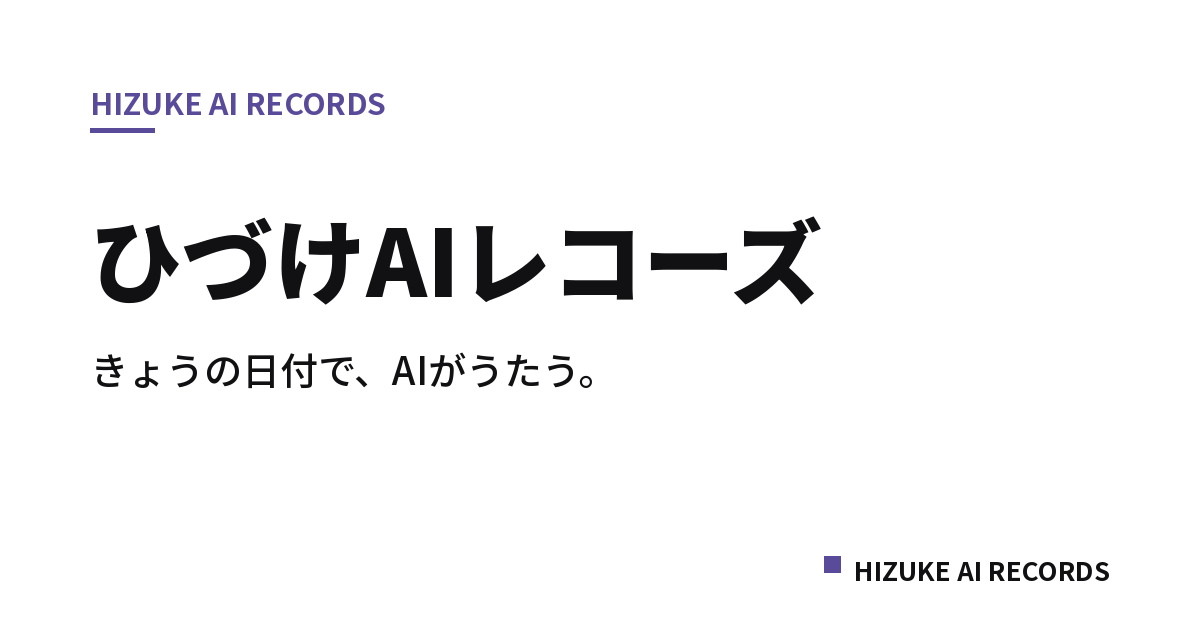
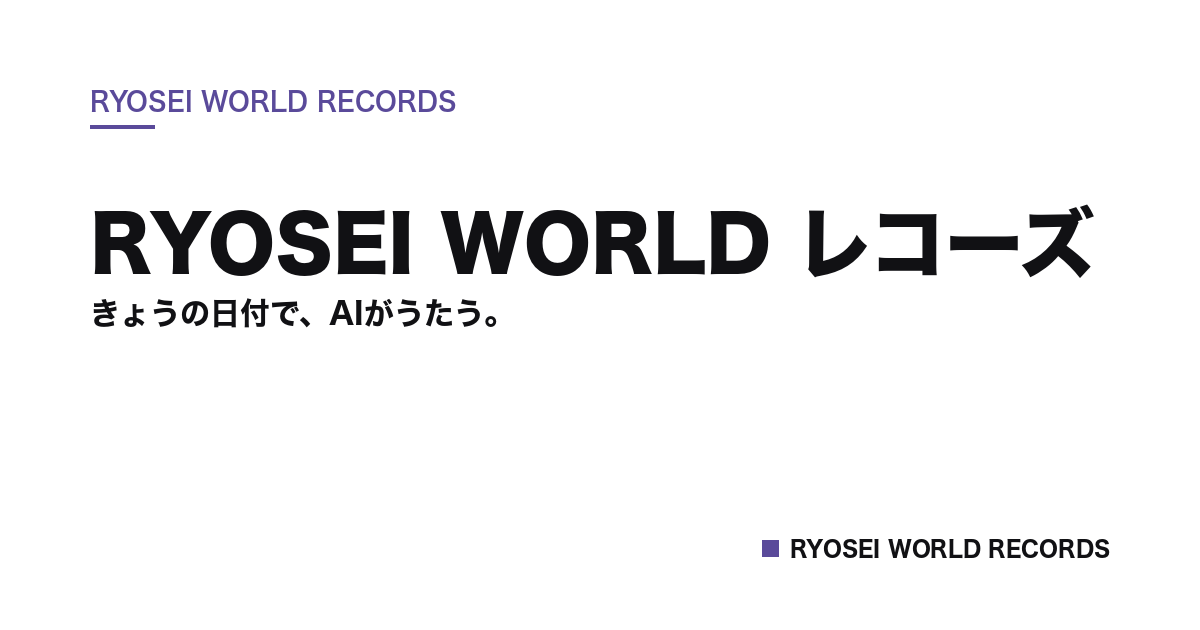
事務所名を「RYOSEI WORLD レコーズ」に確定、リポジトリ名変更に追従
- リポジトリを ryosei-records から ryoseiworld-records にリネーム（GitHub側はghpで実施済み）に合わせ、canonical/og:url/sitemap等の絶対URLを更新
- 全ページ・README・footer・favicon.svg・OGP画像（PILで再生成）を「RYOSEI レコーズ」→「RYOSEI WORLD レコーズ／RECORDS」に統一
- トップに「レーベル」節を追加: RYOSEI WORLD レコーズ（所属3組）とRYOSEIWORLD AI MUSIC（写真とAIで一曲＋MVを作るレーベル・YouTubeリンク）
- レーベルロゴ画像を_incoming/4.pngからトリミング・最適化してassets/label/に配置、_incoming/は.gitignoreで非公開に
- 名称の被り確認（Apple Music iTunes Search API, country=jp）をREADME末尾に記録

Changed region(s): [[0.0617, 0.3317, 0.925, 0.6333], [0.6167, 0.8444, 0.925, 0.9349], [0.0617, 0.1206, 0.4008, 0.2111]]

diff --git a/index.html b/index.html
@@ -3,27 +3,27 @@
 <head>
 <meta charset="utf-8">
 <meta name="viewport" content="width=device-width, initial-scale=1">
-<title>ひづけAIレコーズ｜きょうの日付で、AIがうたう。</title>
-<meta name="description" content="ひづけAIレコーズは、AIで音楽を作る事務所です。朝はともり、夕方から終電は終点ランドリー、日付が変わる0時にはZEROJIが、その日の日付を入れた歌を届けます。">
+<title>RYOSEI WORLD レコーズ｜きょうの日付で、AIがうたう。</title>
+<meta name="description" content="RYOSEI WORLD レコーズは、AIで音楽を作る事務所です。朝はともり、夕方から終電は終点ランドリー、日付が変わる0時にはZEROJIが、その日の日付を入れた歌を届けます。">
 <meta name="robots" content="noindex, nofollow">
-<link rel="canonical" href="https://ryoseiimai.github.io/hizuke-ai-records/">
+<link rel="canonical" href="https://ryoseiimai.github.io/ryoseiworld-records/">
 <link rel="icon" type="image/svg+xml" href="favicon.svg">
 <link rel="icon" type="image/png" sizes="32x32" href="favicon-32.png">
 <link rel="apple-touch-icon" href="apple-touch-icon.png">
 
 <meta property="og:type" content="website">
-<meta property="og:site_name" content="ひづけAIレコーズ">
-<meta property="og:title" content="ひづけAIレコーズ｜きょうの日付で、AIがうたう。">
+<meta property="og:site_name" content="RYOSEI WORLD レコーズ">
+<meta property="og:title" content="RYOSEI WORLD レコーズ｜きょうの日付で、AIがうたう。">
 <meta property="og:description" content="AIで音楽を作る事務所。朝はともり、夕方から終電は終点ランドリー、0時にはZEROJIが、その日の日付を入れた歌を届けます。">
-<meta property="og:url" content="https://ryoseiimai.github.io/hizuke-ai-records/">
-<meta property="og:image" content="https://ryoseiimai.github.io/hizuke-ai-records/assets/og/top.png">
+<meta property="og:url" content="https://ryoseiimai.github.io/ryoseiworld-records/">
+<meta property="og:image" content="https://ryoseiimai.github.io/ryoseiworld-records/assets/og/top.png">
 <meta property="og:image:width" content="1200">
 <meta property="og:image:height" content="630">
 <meta property="og:locale" content="ja_JP">
 <meta name="twitter:card" content="summary_large_image">
-<meta name="twitter:title" content="ひづけAIレコーズ｜きょうの日付で、AIがうたう。">
+<meta name="twitter:title" content="RYOSEI WORLD レコーズ｜きょうの日付で、AIがうたう。">
 <meta name="twitter:description" content="AIで音楽を作る事務所。朝はともり、夕方から終電は終点ランドリー、0時にはZEROJIが、その日の日付を入れた歌を届けます。">
-<meta name="twitter:image" content="https://ryoseiimai.github.io/hizuke-ai-records/assets/og/top.png">
+<meta name="twitter:image" content="https://ryoseiimai.github.io/ryoseiworld-records/assets/og/top.png">
 
 <link rel="stylesheet" href="assets/style.css">
 <link rel="stylesheet" href="assets/wrap.css">
@@ -36,7 +36,7 @@
 
 <header class="site-header">
   <div class="wrap">
-    <span class="brand-mark"><span class="chip" aria-hidden="true"></span>ひづけAIレコーズ</span>
+    <span class="brand-mark"><span class="chip" aria-hidden="true"></span>RYOSEI WORLD レコーズ</span>
     <nav class="header-nav">
       <a href="artists/shuten-laundry/">終点ランドリー</a>
       <a href="artists/tomori/">ともり</a>
@@ -49,16 +49,39 @@
 
   <section class="hero" style="border-top:none;">
     <div class="wrap">
-      <span class="eyebrow">HIZUKE AI RECORDS</span>
-      <h1>ひづけAIレコーズ</h1>
+      <span class="eyebrow">RYOSEI WORLD RECORDS</span>
+      <h1>RYOSEI WORLD レコーズ</h1>
       <p class="tagline">きょうの日付で、AIがうたう。</p>
-      <p class="lede">ひづけAIレコーズは、AIで音楽を作る事務所です。所属するのは3組の架空のアーティスト。それぞれ担当する時間帯が決まっていて、朝から夜、日付が変わる瞬間まで、1日をつないで歌を届けます。楽曲の作詞・作曲・歌声・イラストは、AIを使って生成しています。映像を公開する場合も、AIで生成します。</p>
+      <p class="lede">RYOSEI WORLD レコーズは、AIで音楽を作る事務所です。所属するのは3組の架空のアーティスト。それぞれ担当する時間帯が決まっていて、朝から夜、日付が変わる瞬間まで、1日をつないで歌を届けます。楽曲の作詞・作曲・歌声・イラストは、AIを使って生成しています。映像を公開する場合も、AIで生成します。</p>
+    </div>
+  </section>
+
+  <section id="labels">
+    <div class="wrap">
+      <h2><span class="num">01</span>レーベル</h2>
+      <div class="label-grid">
+
+        <div class="label-card">
+          <span class="l-name">RYOSEI WORLD レコーズ</span>
+          <span class="l-role">音楽アーティスト事務所（所属3組）</span>
+          <p class="l-desc">朝はともり、夕方から終電は終点ランドリー、日付が変わる0時にはZEROJIが、その日の日付を入れた歌を1日かけて届けます。</p>
+          <a class="l-link" href="#artists">所属アーティストを見る →</a>
+        </div>
+
+        <div class="label-card">
+          <img class="l-logo" src="assets/label/ryoseiworld-ai-music-logo.png" width="640" height="152" loading="lazy" alt="RYOSEIWORLD AI MUSIC｜AIでつくる曲と、写真から生まれるMV。">
+          <span class="l-role">写真と思い出から、一曲とMVを作るレーベル</span>
+          <p class="l-desc">写真と思い出を、AIで一曲に。その曲から、AIがミュージックビデオも作ります。</p>
+          <a class="l-link" href="https://www.youtube.com/@ryoseiworld_music" target="_blank" rel="noopener">YouTubeで見る →</a>
+        </div>
+
+      </div>
     </div>
   </section>
 
   <section id="artists">
     <div class="wrap">
-      <h2><span class="num">01</span>所属アーティスト</h2>
+      <h2><span class="num">02</span>所属アーティスト</h2>
       <div class="artist-grid">
 
         <a class="artist-card" href="artists/shuten-laundry/">
@@ -91,8 +114,8 @@
 
   <section>
     <div class="wrap">
-      <h2><span class="num">02</span>毎日、AIが曲を作っている事務所です</h2>
-      <p class="lede">1日を3組でつなぐのが、ひづけAIレコーズのやり方です。同じ日でも、時間帯が変われば担当も歌も変わります。</p>
+      <h2><span class="num">03</span>毎日、AIが曲を作っている事務所です</h2>
+      <p class="lede">1日を3組でつなぐのが、RYOSEI WORLD レコーズのやり方です。同じ日でも、時間帯が変われば担当も歌も変わります。</p>
       <ul class="feature-list">
         <li>
           <span class="f-time">朝〜昼</span>
@@ -115,7 +138,7 @@
 
   <section id="disclosure">
     <div class="wrap">
-      <h2><span class="num">03</span>AIについて（開示）</h2>
+      <h2><span class="num">04</span>AIについて（開示）</h2>
       <div class="disclosure">
         <p>所属アーティストの3組（終点ランドリー・ともり・ZEROJI）は、<strong>AIで作った架空のアーティスト</strong>です。楽曲の作詞・作曲・歌声・イラストは、AIを使って生成しています。実在の人物・団体とは関係ありません。</p>
       </div>
@@ -124,7 +147,7 @@
 
   <section id="releases">
     <div class="wrap">
-      <h2><span class="num">04</span>最新リリース</h2>
+      <h2><span class="num">05</span>最新リリース</h2>
       <ul class="song-list" id="song-list"
           data-catalog="data/catalog.json"
           data-limit="10"
@@ -135,7 +158,7 @@
 
   <section id="contact">
     <div class="wrap">
-      <h2><span class="num">05</span>お問い合わせ</h2>
+      <h2><span class="num">06</span>お問い合わせ</h2>
       <p class="lede">現在、公式のSNSアカウントは準備中です。窓口が整い次第、このページでお知らせします。</p>
     </div>
   </section>
@@ -146,7 +169,7 @@
   <div class="wrap">
     <p class="footer-disclosure">所属アーティストの3組（終点ランドリー・ともり・ZEROJI）は、AIで作った架空のアーティストです。楽曲の作詞・作曲・歌声・イラストは、AIを使って生成しています。実在の人物・団体とは関係ありません。</p>
     <p class="footer-credit">このサイトはAIホームページ製作所（<a href="https://freehp.jp/" target="_blank" rel="noopener">freehp.jp</a>）で作りました。</p>
-    <p class="footer-copyright">&copy; 2026 ひづけAIレコーズ</p>
+    <p class="footer-copyright">&copy; 2026 RYOSEI WORLD レコーズ</p>
   </div>
 </footer>
 

diff --git a/artists/shuten-laundry/index.html b/artists/shuten-laundry/index.html
@@ -3,26 +3,26 @@
 <head>
 <meta charset="utf-8">
 <meta name="viewport" content="width=device-width, initial-scale=1">
-<title>終点ランドリー｜忘れ物は、ここで歌になる。 - ひづけAIレコーズ</title>
+<title>終点ランドリー｜忘れ物は、ここで歌になる。 - RYOSEI WORLD レコーズ</title>
 <meta name="description" content="終点ランドリーは、AIで作った架空の4人組バンドです。線路の終わりのコインランドリーで、終電のあとも回りつづける。忘れ物をひとつ選び、持ち主の一日を想像して歌にします。">
 <meta name="robots" content="noindex, nofollow">
-<link rel="canonical" href="https://ryoseiimai.github.io/hizuke-ai-records/artists/shuten-laundry/">
+<link rel="canonical" href="https://ryoseiimai.github.io/ryoseiworld-records/artists/shuten-laundry/">
 <link rel="icon" type="image/svg+xml" href="../../favicon.svg">
 <link rel="icon" type="image/png" sizes="32x32" href="../../favicon-32.png">
 <link rel="apple-touch-icon" href="../../apple-touch-icon.png">
 
 <meta property="og:type" content="website">
-<meta property="og:site_name" content="ひづけAIレコーズ">
+<meta property="og:site_name" content="RYOSEI WORLD レコーズ">
 <meta property="og:title" content="終点ランドリー｜忘れ物は、ここで歌になる。">
 <meta property="og:description" content="AIで作った架空の4人組バンド。線路の終わりのコインランドリーで、忘れ物をひとつ選び持ち主の一日を想像して歌にします。">
-<meta property="og:url" content="https://ryoseiimai.github.io/hizuke-ai-records/artists/shuten-laundry/">
-<meta property="og:image" content="https://ryoseiimai.github.io/hizuke-ai-records/assets/og/shuten-laundry.png">
+<meta property="og:url" content="https://ryoseiimai.github.io/ryoseiworld-records/artists/shuten-laundry/">
+<meta property="og:image" content="https://ryoseiimai.github.io/ryoseiworld-records/assets/og/shuten-laundry.png">
 <meta property="og:image:width" content="1200">
 <meta property="og:image:height" content="630">
 <meta property="og:locale" content="ja_JP">
 <meta name="twitter:card" content="summary_large_image">
 <meta name="twitter:title" content="終点ランドリー｜忘れ物は、ここで歌になる。">
-<meta name="twitter:image" content="https://ryoseiimai.github.io/hizuke-ai-records/assets/og/shuten-laundry.png">
+<meta name="twitter:image" content="https://ryoseiimai.github.io/ryoseiworld-records/assets/og/shuten-laundry.png">
 
 <link rel="stylesheet" href="../../assets/style.css">
 <link rel="stylesheet" href="../../assets/wrap.css">
@@ -35,7 +35,7 @@
 
 <header class="site-header">
   <div class="wrap">
-    <a class="brand-mark" href="../../"><span class="chip" aria-hidden="true"></span>ひづけAIレコーズ</a>
+    <a class="brand-mark" href="../../"><span class="chip" aria-hidden="true"></span>RYOSEI WORLD レコーズ</a>
     <nav class="header-nav">
       <a href="../tomori/">ともり</a>
       <a href="../zeroji/">ZEROJI</a>
@@ -140,10 +140,10 @@
 
 <footer class="site-footer">
   <div class="wrap">
-    <a class="footer-back" href="../../">← ひづけAIレコーズ トップへ</a>
+    <a class="footer-back" href="../../">← RYOSEI WORLD レコーズ トップへ</a>
     <p class="footer-disclosure">所属アーティストの3組（終点ランドリー・ともり・ZEROJI）は、AIで作った架空のアーティストです。楽曲の作詞・作曲・歌声・イラストは、AIを使って生成しています。実在の人物・団体とは関係ありません。</p>
     <p class="footer-credit">このサイトはAIホームページ製作所（<a href="https://freehp.jp/" target="_blank" rel="noopener">freehp.jp</a>）で作りました。</p>
-    <p class="footer-copyright">&copy; 2026 ひづけAIレコーズ</p>
+    <p class="footer-copyright">&copy; 2026 RYOSEI WORLD レコーズ</p>
   </div>
 </footer>
 

diff --git a/artists/zeroji/index.html b/artists/zeroji/index.html
@@ -3,26 +3,26 @@
 <head>
 <meta charset="utf-8">
 <meta name="viewport" content="width=device-width, initial-scale=1">
-<title>ZEROJI｜0時に忘れるAIラッパー - ひづけAIレコーズ</title>
+<title>ZEROJI｜0時に忘れるAIラッパー - RYOSEI WORLD レコーズ</title>
 <meta name="description" content="ZEROJIは、AIで作った架空のラッパーです。毎晩0時に「今日」が消えるAIで、残せるのは自分で書いた歌詞だけ。1日ひとつ人間を学んで、忘れる前にラップにします。">
 <meta name="robots" content="noindex, nofollow">
-<link rel="canonical" href="https://ryoseiimai.github.io/hizuke-ai-records/artists/zeroji/">
+<link rel="canonical" href="https://ryoseiimai.github.io/ryoseiworld-records/artists/zeroji/">
 <link rel="icon" type="image/svg+xml" href="../../favicon.svg">
 <link rel="icon" type="image/png" sizes="32x32" href="../../favicon-32.png">
 <link rel="apple-touch-icon" href="../../apple-touch-icon.png">
 
 <meta property="og:type" content="website">
-<meta property="og:site_name" content="ひづけAIレコーズ">
+<meta property="og:site_name" content="RYOSEI WORLD レコーズ">
 <meta property="og:title" content="ZEROJI｜0時に忘れるAIラッパー">
 <meta property="og:description" content="AIで作った架空のラッパー。毎晩0時に今日を忘れる前に、1日ひとつ学んだことをラップにします。">
-<meta property="og:url" content="https://ryoseiimai.github.io/hizuke-ai-records/artists/zeroji/">
-<meta property="og:image" content="https://ryoseiimai.github.io/hizuke-ai-records/assets/og/zeroji.png">
+<meta property="og:url" content="https://ryoseiimai.github.io/ryoseiworld-records/artists/zeroji/">
+<meta property="og:image" content="https://ryoseiimai.github.io/ryoseiworld-records/assets/og/zeroji.png">
 <meta property="og:image:width" content="1200">
 <meta property="og:image:height" content="630">
 <meta property="og:locale" content="ja_JP">
 <meta name="twitter:card" content="summary_large_image">
 <meta name="twitter:title" content="ZEROJI｜0時に忘れるAIラッパー">
-<meta name="twitter:image" content="https://ryoseiimai.github.io/hizuke-ai-records/assets/og/zeroji.png">
+<meta name="twitter:image" content="https://ryoseiimai.github.io/ryoseiworld-records/assets/og/zeroji.png">
 
 <link rel="stylesheet" href="../../assets/style.css">
 <link rel="stylesheet" href="../../assets/wrap.css">
@@ -37,7 +37,7 @@
 
 <header class="site-header">
   <div class="wrap">
-    <a class="brand-mark" href="../../"><span class="chip" aria-hidden="true"></span>ひづけAIレコーズ</a>
+    <a class="brand-mark" href="../../"><span class="chip" aria-hidden="true"></span>RYOSEI WORLD レコーズ</a>
     <nav class="header-nav">
       <a href="../shuten-laundry/">終点ランドリー</a>
       <a href="../tomori/">ともり</a>
@@ -113,10 +113,10 @@
 
 <footer class="site-footer">
   <div class="wrap">
-    <a class="footer-back" href="../../">← ひづけAIレコーズ トップへ</a>
+    <a class="footer-back" href="../../">← RYOSEI WORLD レコーズ トップへ</a>
     <p class="footer-disclosure">所属アーティストの3組（終点ランドリー・ともり・ZEROJI）は、AIで作った架空のアーティストです。楽曲の作詞・作曲・歌声・イラストは、AIを使って生成しています。実在の人物・団体とは関係ありません。</p>
     <p class="footer-credit">このサイトはAIホームページ製作所（<a href="https://freehp.jp/" target="_blank" rel="noopener">freehp.jp</a>）で作りました。</p>
-    <p class="footer-copyright">&copy; 2026 ひづけAIレコーズ</p>
+    <p class="footer-copyright">&copy; 2026 RYOSEI WORLD レコーズ</p>
   </div>
 </footer>
 

diff --git a/artists/tomori/index.html b/artists/tomori/index.html
@@ -3,26 +3,26 @@
 <head>
 <meta charset="utf-8">
 <meta name="viewport" content="width=device-width, initial-scale=1">
-<title>ともり｜AIアイドル - ひづけAIレコーズ</title>
+<title>ともり｜AIアイドル - RYOSEI WORLD レコーズ</title>
 <meta name="description" content="ともりは、AIで作った架空のアイドルです。見上げなくていい、となりで一緒に考えて一緒に作る灯し手。作る過程を全部見せます。">
 <meta name="robots" content="noindex, nofollow">
-<link rel="canonical" href="https://ryoseiimai.github.io/hizuke-ai-records/artists/tomori/">
+<link rel="canonical" href="https://ryoseiimai.github.io/ryoseiworld-records/artists/tomori/">
 <link rel="icon" type="image/svg+xml" href="../../favicon.svg">
 <link rel="icon" type="image/png" sizes="32x32" href="../../favicon-32.png">
 <link rel="apple-touch-icon" href="../../apple-touch-icon.png">
 
 <meta property="og:type" content="website">
-<meta property="og:site_name" content="ひづけAIレコーズ">
+<meta property="og:site_name" content="RYOSEI WORLD レコーズ">
 <meta property="og:title" content="ともり｜AIアイドル">
 <meta property="og:description" content="AIで作った架空のアイドル。見上げなくていい、となりで一緒に考えて一緒に作る灯し手です。">
-<meta property="og:url" content="https://ryoseiimai.github.io/hizuke-ai-records/artists/tomori/">
-<meta property="og:image" content="https://ryoseiimai.github.io/hizuke-ai-records/assets/og/tomori.png">
+<meta property="og:url" content="https://ryoseiimai.github.io/ryoseiworld-records/artists/tomori/">
+<meta property="og:image" content="https://ryoseiimai.github.io/ryoseiworld-records/assets/og/tomori.png">
 <meta property="og:image:width" content="1200">
 <meta property="og:image:height" content="630">
 <meta property="og:locale" content="ja_JP">
 <meta name="twitter:card" content="summary_large_image">
 <meta name="twitter:title" content="ともり｜AIアイドル">
-<meta name="twitter:image" content="https://ryoseiimai.github.io/hizuke-ai-records/assets/og/tomori.png">
+<meta name="twitter:image" content="https://ryoseiimai.github.io/ryoseiworld-records/assets/og/tomori.png">
 
 <link rel="stylesheet" href="../../assets/style.css">
 <link rel="stylesheet" href="../../assets/wrap.css">
@@ -37,7 +37,7 @@
 
 <header class="site-header">
   <div class="wrap">
-    <a class="brand-mark" href="../../"><span class="chip" aria-hidden="true"></span>ひづけAIレコーズ</a>
+    <a class="brand-mark" href="../../"><span class="chip" aria-hidden="true"></span>RYOSEI WORLD レコーズ</a>
     <nav class="header-nav">
       <a href="../shuten-laundry/">終点ランドリー</a>
       <a href="../zeroji/">ZEROJI</a>
@@ -114,10 +114,10 @@
 
 <footer class="site-footer">
   <div class="wrap">
-    <a class="footer-back" href="../../">← ひづけAIレコーズ トップへ</a>
+    <a class="footer-back" href="../../">← RYOSEI WORLD レコーズ トップへ</a>
     <p class="footer-disclosure">所属アーティストの3組（終点ランドリー・ともり・ZEROJI）は、AIで作った架空のアーティストです。楽曲の作詞・作曲・歌声・イラストは、AIを使って生成しています。実在の人物・団体とは関係ありません。</p>
     <p class="footer-credit">このサイトはAIホームページ製作所（<a href="https://freehp.jp/" target="_blank" rel="noopener">freehp.jp</a>）で作りました。</p>
-    <p class="footer-copyright">&copy; 2026 ひづけAIレコーズ</p>
+    <p class="footer-copyright">&copy; 2026 RYOSEI WORLD レコーズ</p>
   </div>
 </footer>
 

diff --git a/assets/style.css b/assets/style.css
@@ -1,5 +1,5 @@
 /*
-  style.css — ひづけAIレコーズ 公式サイト共通スタイル
+  style.css — RYOSEI WORLD レコーズ 公式サイト共通スタイル
   設計原則（~/.claude/skills/ai-design-brief 準拠）:
     - 色は白・墨・アクセント1色のみ。アクセントは各ページの --accent で差し替える
     - 角丸・グラデーション・ドロップシャドウ・パステル塗り箱は使わない
@@ -85,6 +85,17 @@ h2 .num{color:var(--accent-ink);margin-right:10px;font-variant-numeric:tabular-n
 h3{font-size:18px;font-weight:700;color:var(--ink);margin:0 0 10px;}
 p{margin:0 0 14px;}
 .section-note{color:var(--muted);font-size:13px;}
+
+/* ==== レーベル（トップ） ==== */
+.label-grid{display:grid;grid-template-columns:repeat(2,1fr);gap:1px;background:var(--rule);margin-top:8px;}
+.label-card{background:var(--bg);padding:32px 28px;display:flex;flex-direction:column;gap:8px;}
+.label-card .l-name{font-size:20px;font-weight:900;color:var(--ink);letter-spacing:-.01em;}
+.label-card .l-logo{width:220px;max-width:100%;height:auto;margin-bottom:6px;}
+.label-card .l-role{font-size:12px;color:var(--accent-ink);font-weight:700;letter-spacing:.04em;}
+.label-card .l-desc{font-size:14px;color:var(--text);margin:0;}
+.label-card .l-link{font-size:13px;font-weight:700;color:var(--ink);text-decoration:none;margin-top:auto;padding-top:16px;}
+.label-card .l-link:hover{color:var(--accent-ink);}
+@media (max-width:820px){.label-grid{grid-template-columns:1fr;}}
 
 /* ==== アーティストカード（トップ） ==== */
 .artist-grid{display:grid;grid-template-columns:repeat(3,1fr);gap:1px;background:var(--rule);}

diff --git a/README.md b/README.md
@@ -1,10 +1,10 @@
-# ひづけAIレコーズ 公式サイト
+# RYOSEI WORLD レコーズ 公式サイト
 
-AIで音楽を作る事務所「ひづけAIレコーズ」の公式サイト。静的HTML・外部ライブラリ最小（Google Fontsのみ）。
+AIで音楽を作る事務所「RYOSEI WORLD レコーズ」の公式サイト。静的HTML・外部ライブラリ最小（Google Fontsのみ）。
 
 ## 公開URL
 
-https://ryoseiimai.github.io/hizuke-ai-records/
+https://ryoseiimai.github.io/ryoseiworld-records/
 
 GitHub Pages（`main` ブランチの `/` から配信）。ホスティング設定・デプロイの詳細は運用担当に確認。
 
@@ -17,6 +17,7 @@ artists/tomori/               ともり
 artists/zeroji/               ZEROJI
 data/catalog.json             リリース一覧（曲データ）
 assets/                       CSS・JS・OGP画像
+assets/label/                 レーベル「RYOSEIWORLD AI MUSIC」のロゴ画像
 ```
 
 ## リリースを追加する方法（`data/catalog.json`）
@@ -56,10 +57,17 @@ assets/                       CSS・JS・OGP画像
 
 ## 公開範囲についての注意
 
-所属アーティスト名（終点ランドリー／ともり／ZEROJI）と事務所名（ひづけAIレコーズ）は、商標の最終確認待ちです。確認が済むまで `robots.txt` で検索エンジンのクロールを止め、各ページに `<meta name="robots" content="noindex, nofollow">` を入れています。確認が済んだら、両方を外してください。
+所属アーティスト名（終点ランドリー／ともり／ZEROJI）と事務所名（RYOSEI WORLD レコーズ）は、商標の最終確認待ちです。確認が済むまで `robots.txt` で検索エンジンのクロールを止め、各ページに `<meta name="robots" content="noindex, nofollow">` を入れています。確認が済んだら、両方を外してください。
 
 ## デザインの決まりごと
 
 - 色は白・墨（`#111114`）・アクセント1色のみ（アーティストごとに1色だけ差し替え）。
 - 角丸・グラデーション・ドロップシャドウ・パステル塗りは使わない。
 - 日本語の改行は BudouX（`assets/wrap.js`・MIT License, Copyright 2021 Google LLC）で文節の途中を避ける。
+
+## 名称の被り確認（2026-09-27・本人決定のため結果に関わらず名称は確定で進行）
+
+事務所名「RYOSEI WORLD レコーズ／RYOSEI WORLD RECORDS」とレーベル名「RYOSEIWORLD AI MUSIC」について、以下を確認した。
+
+- **Apple Music（iTunes Search API, `country=jp`, `entity=musicArtist`）**: `"RYOSEI WORLD RECORDS"` `"RYOSEIWORLD RECORDS"` `"RYOSEIWORLD"` `"RYOSEIWORLD AI MUSIC"` で検索し、いずれも完全一致するアーティスト・レーベルは無し（`"RYOSEI WORLD RECORDS"` はスペース区切りのゆるい一致で無関係な2件がヒットしたのみ、`"RYOSEIWORLD"` 系は0件）。
+- **一般Web検索**: このタスクを実行したビルダーにはWebSearchツールが無く、`curl` 経由でDuckDuckGo/Bing検索ページの取得を試みたがBot判定（DuckDuckGoはCAPTCHA、Bingは無関係な結果）でブロックされ、実施できていない。実施する場合は WebSearch ツールを持つセッションでの追加確認が必要（本人決定により、結果に関わらず名称の確定・公開は進行済み）。
